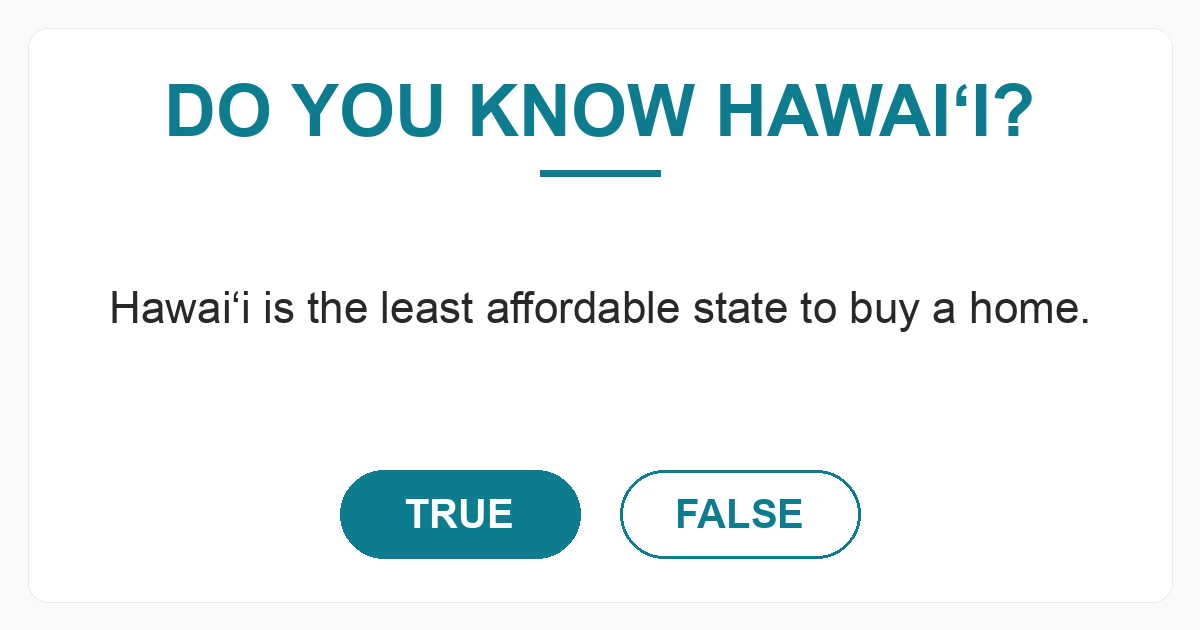
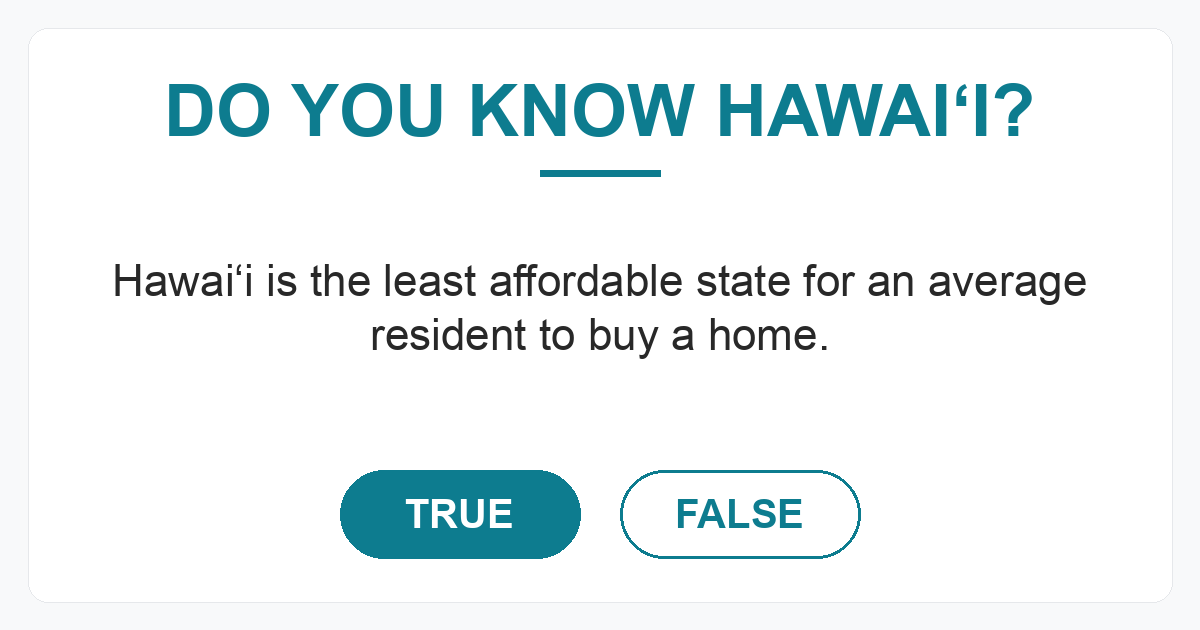
QOTD q010: tighten claim — affordability for an average resident
Was: "Hawaiʻi is the least affordable state to buy a home."
Now: "Hawaiʻi is the least affordable state for an average resident
to buy a home."

The chart measures price-to-income ratio (Hawaiʻi #1 at 8.7x), not
absolute home price. The previous wording could be misread as
"Hawaiʻi has the highest home prices," which the data does not
support — California, Massachusetts, etc. have higher absolute
prices but better income alignment. Adding "for an average resident"
matches what the metric actually measures.

Slug kept stable so existing shared URLs don't break. Files updated:
js/questions.js (source), q/q010/index.html (auto-regen), the older
slug-based redirect page, and the QOTD OG card image.

Changed region(s): [[0.0925, 0.4222, 0.925, 0.573]]

diff --git a/q/hawaii-is-the-least-affordable-state-to-buy-a-home/index.html b/q/hawaii-is-the-least-affordable-state-to-buy-a-home/index.html
@@ -6,16 +6,16 @@
   <meta property="og:type" content="website">
   <meta property="og:url" content="https://hawaiidashboard.org/q/hawaii-is-the-least-affordable-state-to-buy-a-home/">
   <meta property="og:title" content="Do you know Hawaiʻi?">
-  <meta property="og:description" content="Hawaiʻi is the least affordable state to buy a home.">
+  <meta property="og:description" content="Hawaiʻi is the least affordable state for an average resident to buy a home.">
   <meta property="og:image" content="https://hawaiidashboard.org/assets/og/q/hawaii-is-the-least-affordable-state-to-buy-a-home.png">
   <meta property="og:image:width" content="1200">
   <meta property="og:image:height" content="630">
   <meta property="og:site_name" content="Hawaiʻi Dashboard">
   <meta name="twitter:card" content="summary_large_image">
   <meta name="twitter:title" content="Do you know Hawaiʻi?">
-  <meta name="twitter:description" content="Hawaiʻi is the least affordable state to buy a home.">
+  <meta name="twitter:description" content="Hawaiʻi is the least affordable state for an average resident to buy a home.">
   <meta name="twitter:image" content="https://hawaiidashboard.org/assets/og/q/hawaii-is-the-least-affordable-state-to-buy-a-home.png">
-  <meta name="description" content="Hawaiʻi is the least affordable state to buy a home.">
+  <meta name="description" content="Hawaiʻi is the least affordable state for an average resident to buy a home.">
   <link rel="canonical" href="https://hawaiidashboard.org/q/hawaii-is-the-least-affordable-state-to-buy-a-home/">
   <script>window.location.replace('/#q/hawaii-is-the-least-affordable-state-to-buy-a-home');</script>
   <meta http-equiv="refresh" content="0;url=https://hawaiidashboard.org/#q/hawaii-is-the-least-affordable-state-to-buy-a-home">
@@ -24,7 +24,7 @@
   <p>Redirecting to <a href="https://hawaiidashboard.org/#q/hawaii-is-the-least-affordable-state-to-buy-a-home">Do you know Hawaiʻi?</a>&hellip;</p>
   <article style="max-width:640px;margin:2rem auto;padding:0 1rem;font-family:-apple-system,BlinkMacSystemFont,'Segoe UI',sans-serif;color:#333;line-height:1.55;">
     <p style="color:#888;font-size:0.875rem;text-transform:uppercase;letter-spacing:0.05em;margin:0;">Do you know Hawaiʻi?</p>
-    <p style="margin:0.25rem 0 1rem;font-size:1.25rem;font-weight:600;">Hawaiʻi is the least affordable state to buy a home.</p>
+    <p style="margin:0.25rem 0 1rem;font-size:1.25rem;font-weight:600;">Hawaiʻi is the least affordable state for an average resident to buy a home.</p>
     <p><strong>True.</strong> Hawaiʻi has the #1 highest value among 50 states in 2024 (8.7x).</p>
     <p style="margin-top:1.5rem;"><a href="/r/home_price_to_income/">See the data &rarr;</a></p>
   </article>

diff --git a/q/q010/index.html b/q/q010/index.html
@@ -13,7 +13,7 @@
   <meta name="twitter:card" content="summary_large_image">
   <meta name="twitter:title" content="Do you know Hawaiʻi?">
   <meta name="twitter:image" content="https://hawaiidashboard.org/assets/og/q/hawaii-is-the-least-affordable-state-to-buy-a-home.png">
-  <meta name="description" content="Hawaiʻi is the least affordable state to buy a home.">
+  <meta name="description" content="Hawaiʻi is the least affordable state for an average resident to buy a home.">
   <link rel="canonical" href="https://hawaiidashboard.org/q/q010/">
   <script>window.location.replace("/?from_q=q010");</script>
   <meta http-equiv="refresh" content="0;url=https://hawaiidashboard.org/?from_q=q010">
@@ -22,7 +22,7 @@
   <p>Redirecting to <a href="https://hawaiidashboard.org/?from_q=q010">Do you know Hawaiʻi?</a>&hellip;</p>
   <article style="max-width:640px;margin:2rem auto;padding:0 1rem;font-family:-apple-system,BlinkMacSystemFont,'Segoe UI',sans-serif;color:#333;line-height:1.55;">
     <p style="color:#888;font-size:0.875rem;text-transform:uppercase;letter-spacing:0.05em;margin:0;">Do you know Hawaiʻi?</p>
-    <p style="margin:0.25rem 0 1rem;font-size:1.25rem;font-weight:600;">Hawaiʻi is the least affordable state to buy a home.</p>
+    <p style="margin:0.25rem 0 1rem;font-size:1.25rem;font-weight:600;">Hawaiʻi is the least affordable state for an average resident to buy a home.</p>
     <p><strong>True.</strong> Hawaiʻi has the #1 highest value among 50 states in 2024 (8.7x).</p>
     <p style="margin-top:1.5rem;"><a href="/r/home_price_to_income/">See the data &rarr;</a></p>
   </article>

diff --git a/js/questions.js b/js/questions.js
@@ -153,7 +153,7 @@ const QOTD_QUESTIONS = [
   {
     "id": "q010",
     "slug": "hawaii-is-the-least-affordable-state-to-buy-a-home",
-    "claim": "Hawaiʻi is the least affordable state to buy a home.",
+    "claim": "Hawaiʻi is the least affordable state for an average resident to buy a home.",
     "correct": true,
     "answer": "Hawaiʻi has the #1 highest value among 50 states in 2024 (8.7x).",
     "chartUrl": "/r/home_price_to_income/",
